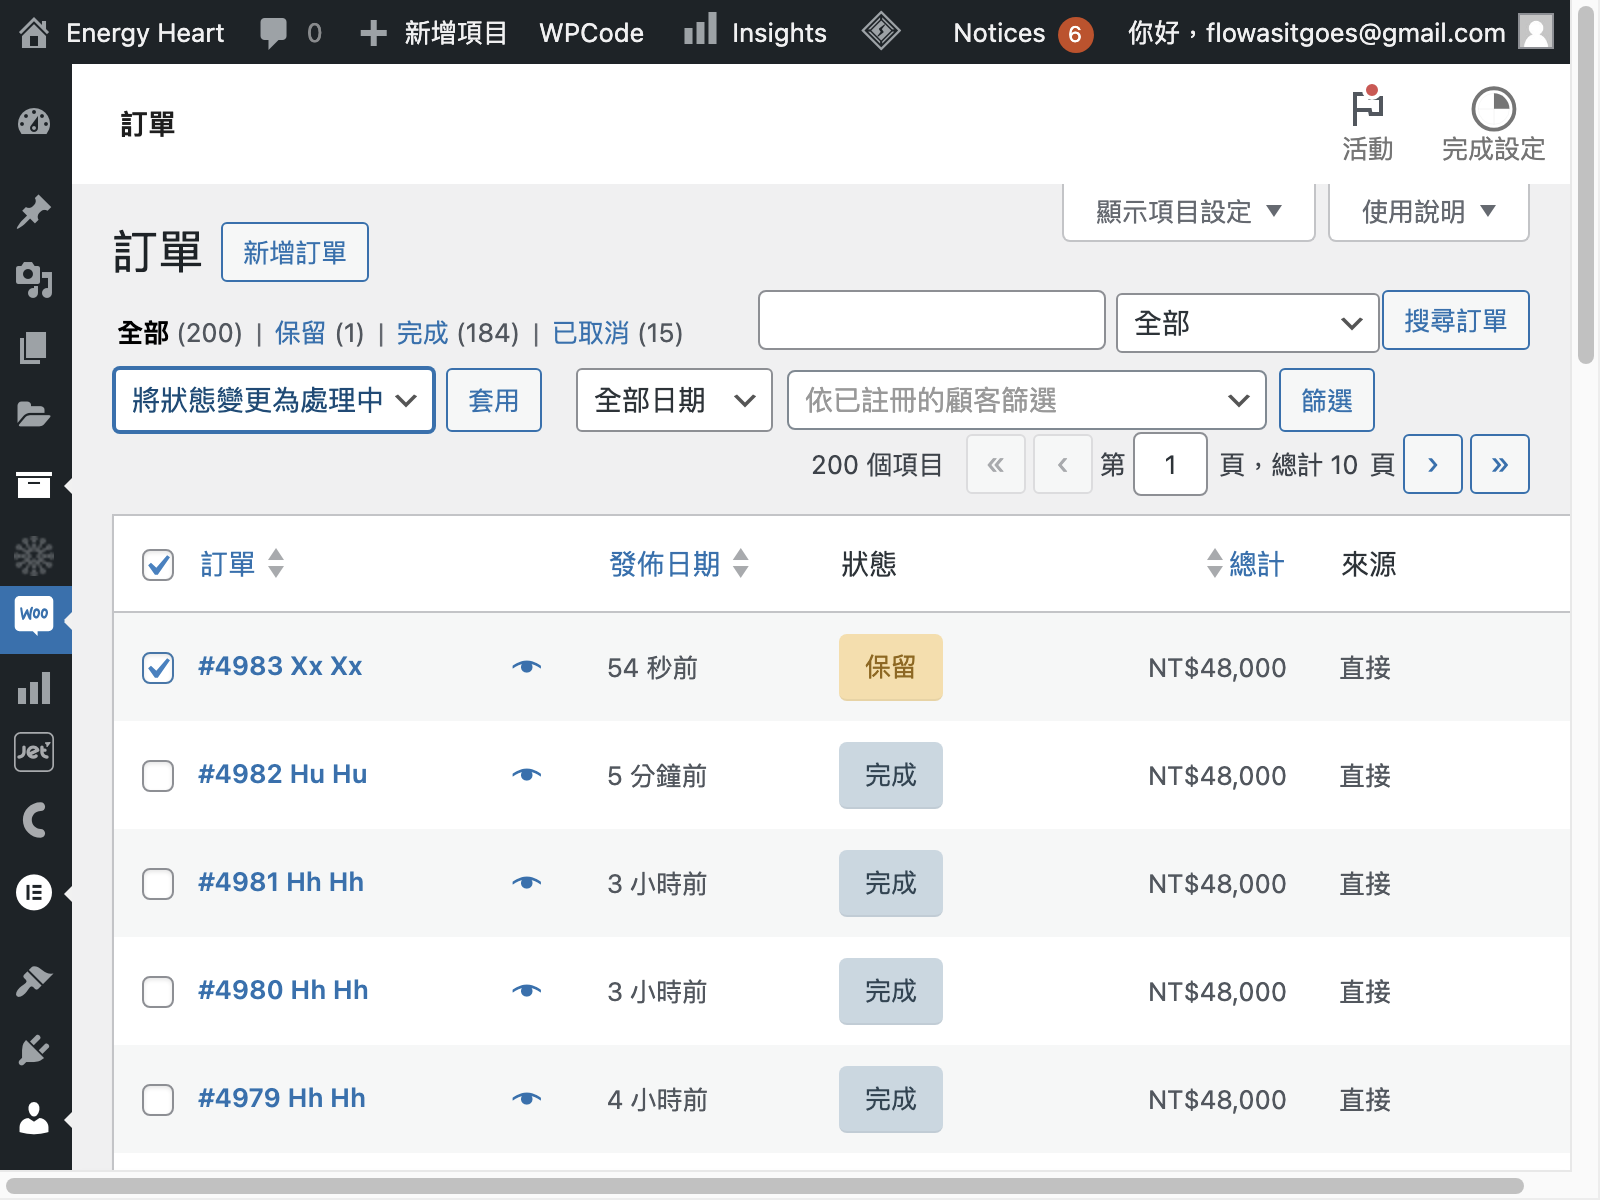
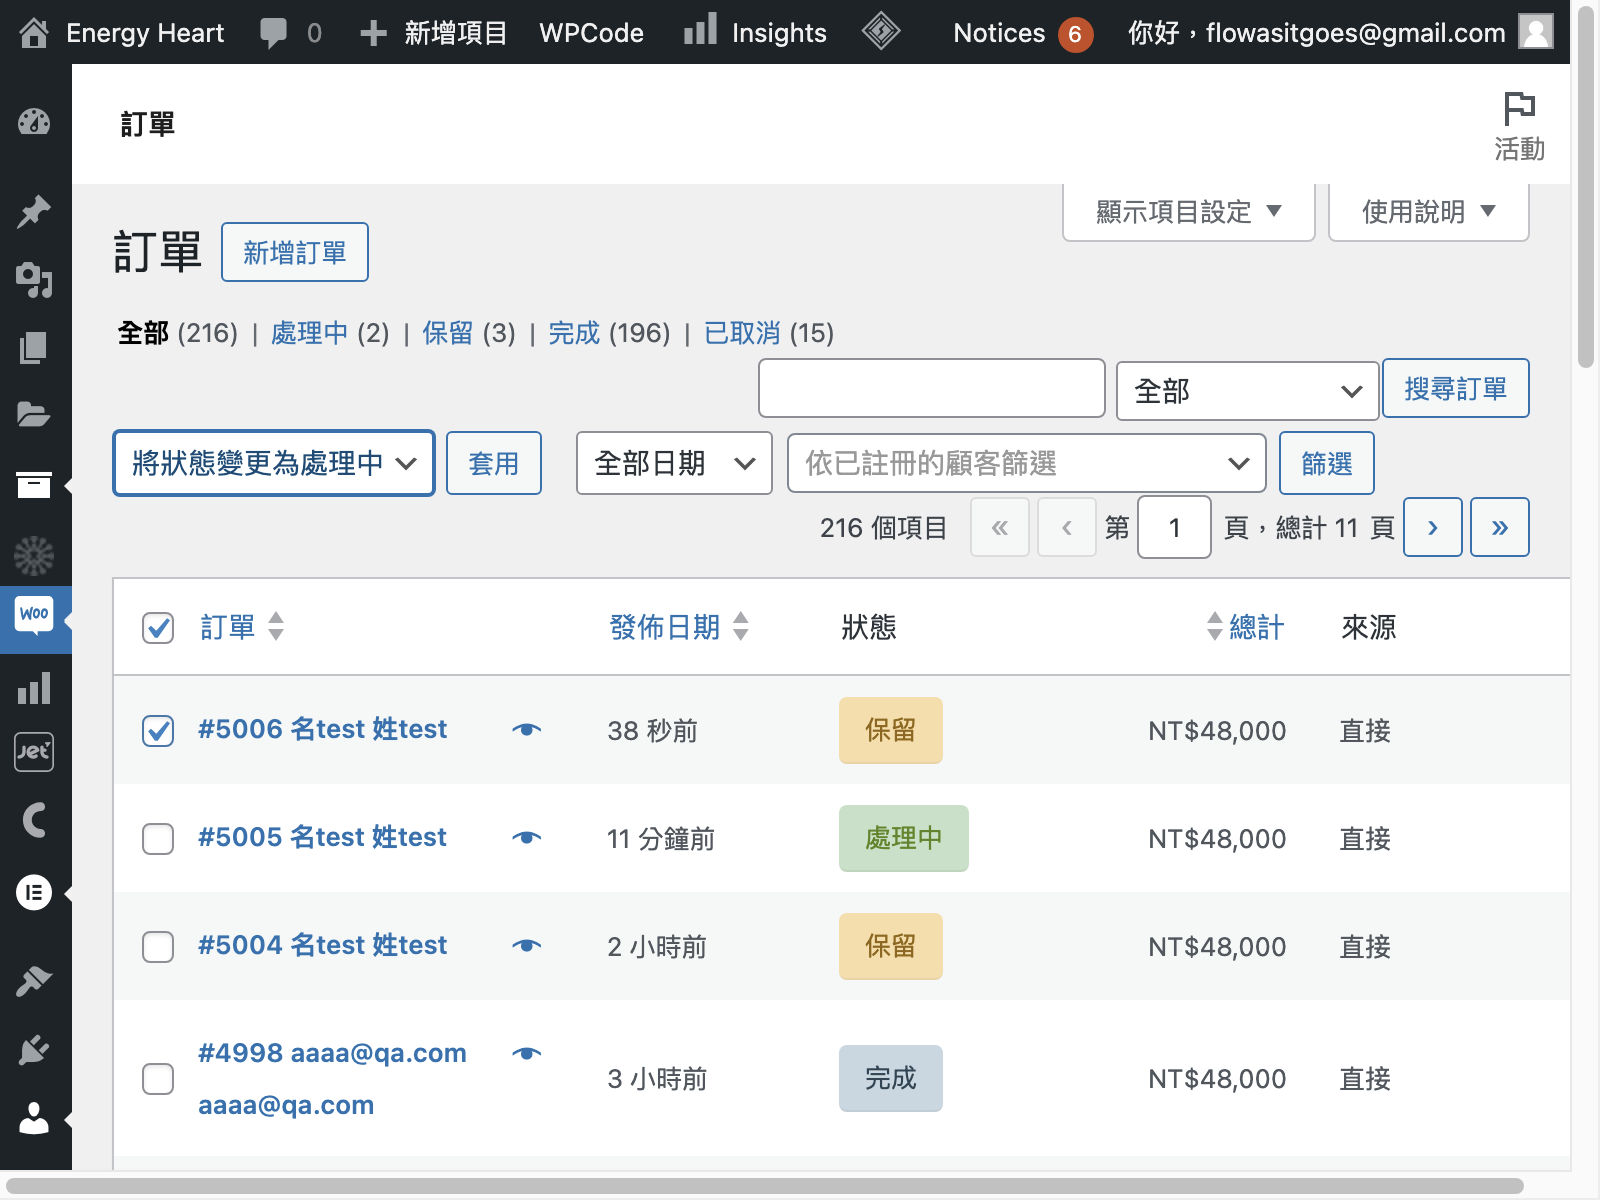
registerAndBuy新增上家連結分享, admin取得訂單編號

diff --git a/registerAndBuy.js b/registerAndBuy.js
@@ -2,12 +2,21 @@ const { Builder, By, Key, until } = require('selenium-webdriver');
 const chrome = require('selenium-webdriver/chrome');
 const fs = require('fs');
 const path = require('path');
+const readline = require('readline');
+
+// 設置 readline 接口
+const rl = readline.createInterface({
+    input: process.stdin,
+    output: process.stdout
+});
 
 (async function registerAccount() {
     let options = new chrome.Options();
     options.addArguments('--headless');  // 設置無頭模式
     options.addArguments('--no-sandbox');
     options.addArguments('--disable-dev-shm-usage');
+    options.addArguments('--ignore-certificate-errors');  // 忽略 SSL 認證錯誤
+
     
     let driver = await new Builder()
         .forBrowser('chrome')
@@ -16,7 +25,7 @@ const path = require('path');
     
     async function takeScreenshot(filename) {
         // 確保 screenshots 文件夾存在
-        const screenshotsDir = path.join(__dirname, 'screenshots-forNewMember');
+        const screenshotsDir = path.join(__dirname, 'screenshots-registerAndBuy');
         if (!fs.existsSync(screenshotsDir)) {
             fs.mkdirSync(screenshotsDir);
         }
@@ -26,10 +35,35 @@ const path = require('path');
     }
     
     try {
-        // 打開 WordPress 註冊頁面
-        await driver.get('https://www.energyheart.com.tw/my-account/');
-        console.log('已打開註冊頁面');
-        await takeScreenshot('1-已打開註冊頁面.png');  // 截圖註冊頁面
+        
+        const ifStranger = await new Promise((resolve) => {
+            rl.question('請問您是陌生客戶嗎?:（1:是, 2:不是) ', resolve);
+        });
+
+        let linkFromUpper = '';
+
+        if (ifStranger.trim() !== '1') {
+            linkFromUpper = await new Promise((resolve) => {
+                rl.question('請輸入上家連結: ', resolve);
+            });
+            console.log(linkFromUpper, 'ㄔㄥ公');
+            await driver.get(linkFromUpper);
+            await driver.sleep(10000); // 假設等待 10 秒鐘
+            const theURL = await driver.getCurrentUrl();
+            console.log(theURL, '222');
+            await takeScreenshot('1-1-1已打開註冊頁面.png');
+            await driver.get('https://www.energyheart.com.tw/my-account/');
+            await takeScreenshot('1-1-2已打開註冊頁面.png');
+
+        } else {
+            // 打開 WordPress 註冊頁面
+            await driver.get('https://www.energyheart.com.tw/my-account/');
+            console.log('已打開註冊頁面');
+            await takeScreenshot('1-2-已打開註冊頁面.png');  // 截圖註冊頁面
+        }
+
+        rl.close();
+        
         
         // 等待註冊表單元素顯示，增加等待時間至 30 秒
         await driver.wait(until.elementLocated(By.id('reg_email')), 30000);
@@ -129,9 +163,13 @@ const path = require('path');
 
         await driver.findElement(By.name('woocommerce_checkout_place_order')).click();
         console.log('已結帳囉, 等待跳轉');
-        await driver.sleep(7000);
-        console.log('已結帳囉, 跳轉後');
+        await driver.sleep(15000);
+        console.log('跳轉成功 - 顯示訂單頁面');
         await takeScreenshot('94-完成結帳.png');
+        // 查找 <li> 标签中的 <strong> 子标签
+        const strongElement = await driver.findElement(By.css('.woocommerce-order-overview__order.order strong'));
+        const orderNumber = await strongElement.getText();
+        console.log('取得訂單編號-', orderNumber);
 
         // await driver.sleep(15000);
         // await takeScreenshot('83-selected_product.png');

diff --git a/admin.js b/admin.js
@@ -2,6 +2,13 @@ const { Builder, By, Key, until } = require('selenium-webdriver');
 const chrome = require('selenium-webdriver/chrome');
 const fs = require('fs');
 const path = require('path');
+const readline = require('readline');
+
+// 設置 readline 接口
+const rl = readline.createInterface({
+    input: process.stdin,
+    output: process.stdout
+});
 
 (async function reviewOrder() {
     let options = new chrome.Options();
@@ -13,6 +20,9 @@ const path = require('path');
         .forBrowser('chrome')
         .setChromeOptions(options)
         .build();
+
+    const orderIDs = [];  // 初始化订单号数组
+
 
     async function takeScreenshot(filename) {
         // 確保 screenshots 文件夾存在
@@ -26,6 +36,16 @@ const path = require('path');
     }
 
     try {
+
+        const getOrderID = await new Promise((resolve) => {
+            rl.question('請輸入訂單號碼: ', resolve);
+        });
+
+        // const orderIdsInput = await new Promise((resolve) => {
+        //     rl.question('請輸入訂單ID（用逗號分隔）: ', resolve);
+        // });
+        // const orderIds = orderIdsInput.split(',').map(id => id.trim());
+
         // 打開 WordPress 登入頁面
         await driver.get('https://www.energyheart.com.tw/wp-login.php');
         console.log('已打開登入頁面');
@@ -64,11 +84,10 @@ const path = require('path');
 
         // 更改訂單狀態為處理中 ------------------------------------------------------------------------
 
-        // 訂單 ID 陣列
-        const orderIds = ['4983'];
+        orderIDs.push(getOrderID);
 
         // 遍歷每個訂單 ID
-        for (let orderId of orderIds) {
+        for (let orderId of orderIDs) {
             // 選擇特定訂單進行審核
             await driver.wait(until.elementLocated(By.xpath(`//input[@id='cb-select-${orderId}']`)), 30000);
             let checkbox = await driver.findElement(By.xpath(`//input[@id='cb-select-${orderId}']`));
@@ -92,7 +111,7 @@ const path = require('path');
          // 更改訂單狀態為完成 ------------------------------------------------------------------------
 
         // 遍歷每個訂單 ID
-        for (let orderId of orderIds) {
+        for (let orderId of orderIDs) {
             // 選擇特定訂單進行審核
             await driver.wait(until.elementLocated(By.xpath(`//input[@id='cb-select-${orderId}']`)), 30000);
             let checkbox = await driver.findElement(By.xpath(`//input[@id='cb-select-${orderId}']`));
